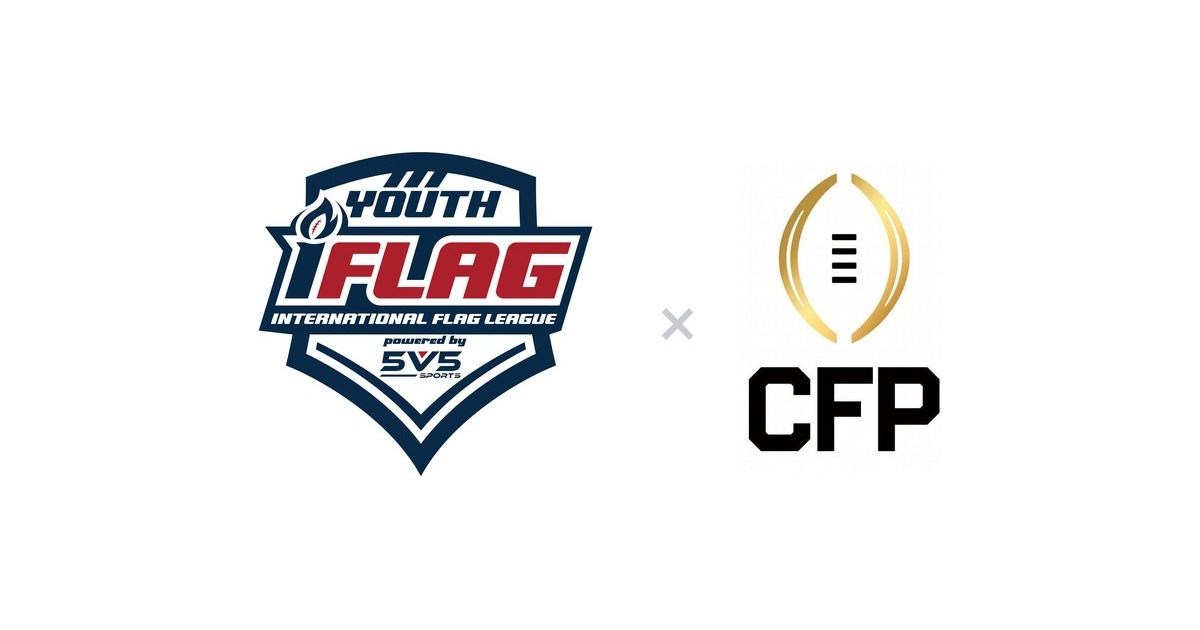
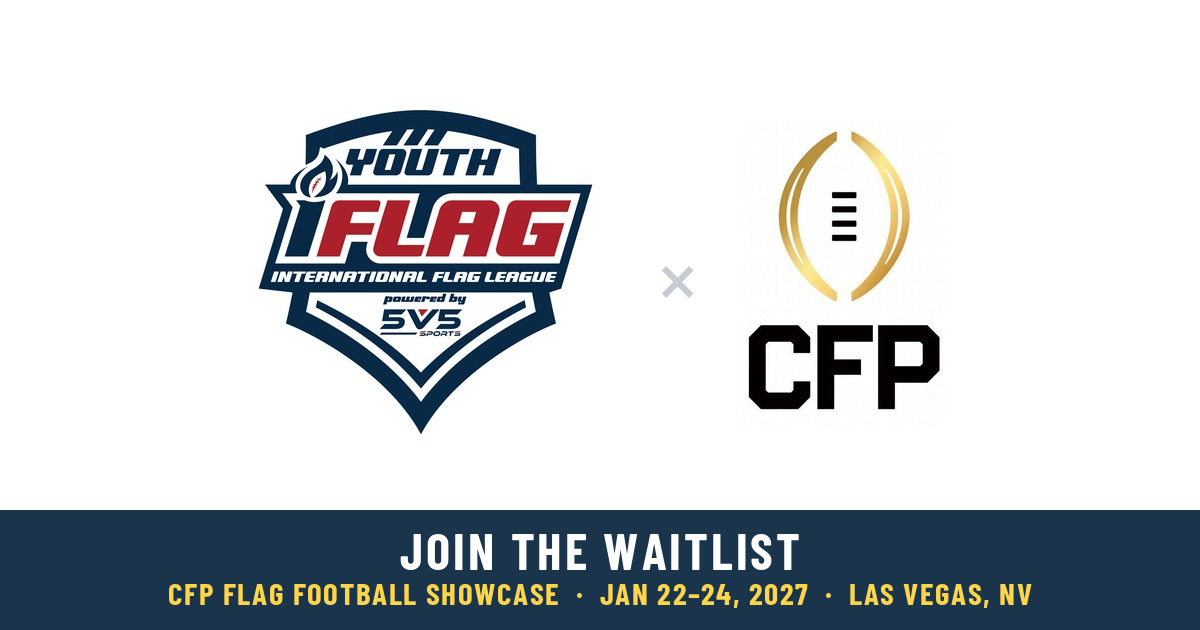
Restore the social card ribbon, led by the waitlist ask
Bring back the navy strap removed earlier, but make the call to action
the headline: "Join the Waitlist" in white, with the event, dates and
city supporting it in gold underneath. Set in Barlow Condensed Bold, the
same face the page uses, at the strap's original colours.

Bump the og:image version so scrapers pick up the new card rather than
the cached logo-only one.

Claude-Session: https://claude.ai/code/session_01YYViDHQ4rQ6xcTpNL4oBZx

diff --git a/index.html b/index.html
@@ -9,14 +9,14 @@
 <meta property="og:description" content="Be the first to get notified when registration opens Sept 16 at 7pm ET.">
 <!-- OG IMAGE: og.jpg deploys alongside this file at the site root. -->
 <meta property="og:url" content="https://iflag-web.vercel.app/">
-<meta property="og:image" content="https://iflag-web.vercel.app/og.jpg?v=2">
+<meta property="og:image" content="https://iflag-web.vercel.app/og.jpg?v=3">
 <meta property="og:image:width" content="1200">
 <meta property="og:image:height" content="630">
 <meta property="og:type" content="website">
 <meta name="twitter:card" content="summary_large_image">
 <meta name="twitter:title" content="Youth Waitlist — CFP Flag Football Showcase">
 <meta name="twitter:description" content="Be the first to get notified when registration opens Sept 16 at 7pm ET.">
-<meta name="twitter:image" content="https://iflag-web.vercel.app/og.jpg?v=2">
+<meta name="twitter:image" content="https://iflag-web.vercel.app/og.jpg?v=3">
 <link rel="canonical" href="https://iflag-web.vercel.app/">
 <link rel="icon" href="https://iflag.org/wp-content/uploads/2020/04/favicon.png">
 <link rel="preconnect" href="https://fonts.googleapis.com">
